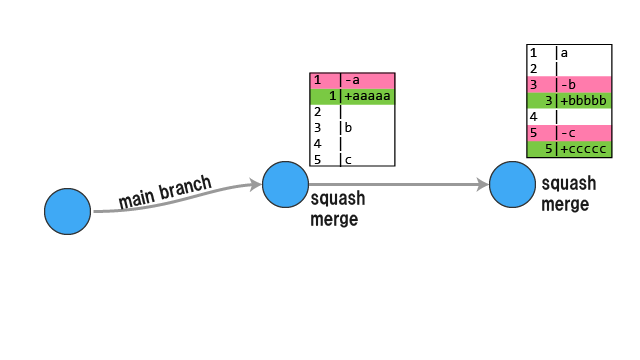
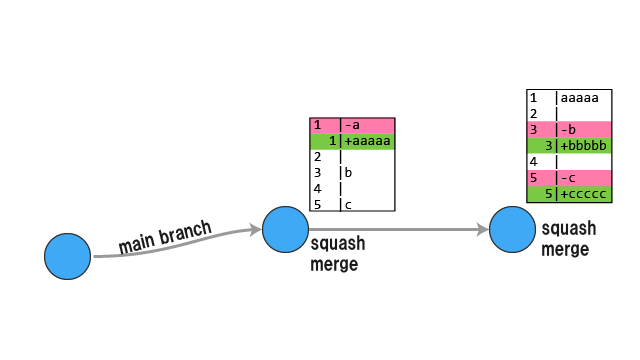
okay

Changed region(s): [[0.0625, 0.1222, 0.9688, 0.7944], [0.9375, 0.1222, 0.9688, 0.1528]]

diff --git a/articles/f20aee8979292d.md b/articles/f20aee8979292d.md
@@ -8,7 +8,7 @@ published: false
 
 ## 導入
 
-GitHub の Pull Request をマージする方法には 3 種類の方法、Merge pull request(Create a merge commit)、Squash and merge、Rebase and merge があります。
+GitHub の Pull Request をマージする方法には 3 種類、Merge pull request(Create a merge commit)、Squash and merge、Rebase and merge があります。
 
 ![Create a merge commit](/images/f20aee8979292d/pr-merge-merge-commit.png)
 
@@ -25,7 +25,7 @@ GitHub の Pull Request をマージする方法には 3 種類の方法、Merge
 
 :::
 
-すでに様々な場所で解説されている内容ですが、あらためて自分で手を動かして動作確認すると、新しい発見があり、知識の整理ができると思います。そこで本記事では、コピペで貼り付けるだけで簡単に手順を再現できる形でこれら 3 種類の違いを説明していきます。
+すでに様々な場所で解説されている内容ですが、あらためて手を動かして動作確認すると、新しい発見があり、知識の整理もできると思います。そこで本記事では、これら 3 種類の違いを説明しつつ、コピペで貼り付けるだけで簡単に手順を再現できるようにしています。
 
 ## 準備: GitHub レポジトリの作成
 
@@ -40,7 +40,10 @@ git init
 GitHub 上にレポジトリを作成しましょう。Web ブラウザではなくコマンドを使えば一発で終わります。
 
 ```sh:コピペして実行
-gh repo create "" --public --source=. --remote=origin
+gh repo create pull-req-merge-experiments \ # GitHub上のレポジトリ名 pull-req-merge-experiments
+  --public \      # public レポジトリとして作成
+  --source=. \    # ローカルレポジトリのパスは.
+  --remote=origin # リモートレポジトリをoriginに指定
 ```
 
 :::details 　上記の gh コマンドは何？
@@ -81,7 +84,7 @@ git push --set-upstream origin pr-merge-commit-1
 gh pr create --title pr-merge-commit-1 --body "" --base main --head pr-merge-commit-1
 ```
 
-:::details Pull Request の File diff
+:::details 1 つめの Pull Request の File diff
 ![branch-merge-commit-1](/images/f20aee8979292d/branch-merge-commit-1.png)
 :::
 
@@ -101,15 +104,15 @@ git push --set-upstream origin pr-merge-commit-2
 gh pr create --title pr-merge-commit-2 --body "" --base main --head pr-merge-commit-2
 ```
 
-:::details Pull Request の File diff
+:::details 2 つめの Pull Request の File diff
 ![branch-merge-commit-2](/images/f20aee8979292d/branch-merge-commit-2.png)
 :::
 
-:::details 2 つ Pull Request の状態を図解
+:::details 両方の Pull Request の状態を図解
 ![git-pr-merge-4](/images/f20aee8979292d/git-pr-merge-4.png)
 :::
 
-これで merge commit の動作を確認するための Pull Request が 2 つ作成されましたので、1 つめ Pull Request をマージします。
+これで merge commit の動作を確認するための Pull Request が 2 つ作成されたので、1 つめ Pull Request をマージします。
 
 ```sh:コピペして実行
 gh pr merge pr-merge-commit-1 --merge --delete-branch
@@ -139,11 +142,11 @@ git pull origin main
 :::details 2 つめの Pull Request マージ結果
 これによって 2 つめの Merge commit が作成されます。
 
-しかし GitHub 上でここまでの git log を確認すると、本来は分岐が発生しているにも関わらず、一直線にコミットが並んでいるように見え、かつ Merge commit2 つが連続しています。
-
 ![github-log-merge-commit-2](/images/f20aee8979292d/github-log-merge-commit-2.png)
 
-Merge commit によって分岐が発生した場合には、下記のコマンドで確認すると分岐の様子がわかりやすくなります。
+しかし GitHub 上でここまでの git log を確認すると、本来は分岐が発生しているにも関わらず、一直線にコミットが並んでいるように見え、かつ Merge commit2 つが連続しています。
+
+この場合、下記のコマンドで確認すると分岐の様子がわかりやすくなります。
 
 ```sh:コピペして実行
 git log --oneline --decorate --graph
@@ -171,7 +174,7 @@ git log --oneline --decorate --graph
 
 ## ローカル で `no-ff` オプションを使ったマージを試す
 
-GitHub Docs の[「プルリクエストをマージする」](https://docs.github.com/ja/pull-requests/collaborating-with-pull-requests/incorporating-changes-from-a-pull-request/merging-a-pull-request)を見ると、次の記述があります。
+GitHub Docs の[「プルリクエストをマージする」](https://docs.github.com/ja/pull-requests/collaborating-with-pull-requests/incorporating-changes-from-a-pull-request/merging-a-pull-request)を見ると、次の記述があります。これを確認してみましょう。
 
 > (create a merge commit では) プルリクエストは --no-ff オプションを使用してマージされますが…
 
@@ -215,7 +218,7 @@ git push origin main
 
 `no-ff`をつけてマージした結果はこちらのようになります。GitHub 上でのマージと同じように、Merge commit が作成されます。
 
-![git-pr-merge-2.png](/images/f20aee8979292d/git-pr-merge-2.png)
+![git-pr-merge-3.png](/images/f20aee8979292d/git-pr-merge-3.png)
 _git マージの結果_
 
 git log でも確認してみましょう。
@@ -273,7 +276,7 @@ git push origin main
 
 デフォルトのマージを行った結果はこちらのようになります。Merge commit は作成されず、main ブランチの先にもうひとつのブランチのコミットを連続してコミットしたような形になります。
 
-![git-pr-merge-3](/images/f20aee8979292d/git-pr-merge-3.png)
+![git-pr-merge-2](/images/f20aee8979292d/git-pr-merge-2.png)
 _git マージの結果_
 
 git log でも確認してみましょう。
@@ -324,7 +327,7 @@ git push --set-upstream origin pr-squash-merge-1
 gh pr create --title pr-squash-merge-1 --body "" --base main --head pr-squash-merge-1
 ```
 
-:::details Pull Request の File diff
+:::details 1 つめの Pull Request の File diff
 ![branch-merge-commit-1](/images/f20aee8979292d/branch-merge-commit-1.png)
 :::
 
@@ -344,18 +347,18 @@ git push --set-upstream origin pr-squash-merge-2
 gh pr create --title pr-squash-merge-2 --body "" --base main --head pr-squash-merge-2
 ```
 
-:::details Pull Request の File diff
+:::details 2 つめの Pull Request の File diff
 ![branch-merge-commit-2](/images/f20aee8979292d/branch-merge-commit-2.png)
 :::
 
-:::details 2 つ Pull Request の状態を図解
+:::details 両方の Pull Request の状態を図解
 ![git-pr-merge-4](/images/f20aee8979292d/git-pr-merge-4.png)
 :::
 
 これで merge commit の動作を確認するための Pull Request が 2 つ作成されましたので、1 つめ Pull Request をマージします。
 
 ```sh:コピペして実行
-gh pr merge pr-squash-merge-1 --squash --delete-branch # PRのSquash merge
+gh pr merge pr-squash-merge-1 --squash --delete-branch
 ```
 
 :::details 1 つめの Pull Request マージ結果
@@ -374,7 +377,7 @@ File diff とブランチはこのようになります。
 続いて 2 つめの Pull Request をマージします。
 
 ```sh:コピペして実行
-gh pr merge pr-squash-merge-2 --squash --delete-branch # PRのSquash merge
+gh pr merge pr-squash-merge-2 --squash --delete-branch
 
 # GitHub 側で更新された main ブランチを pull
 git switch main
@@ -384,7 +387,7 @@ git pull origin main
 :::details 2 つめの Pull Request マージ結果
 2 つめのブランチには複数のコミットが行われたので、squash commit が作成されます。
 
-GitHub 上で git log を確認すると、squash コミット 1 つのみが追加されたことがわかります。
+GitHub 上で git log を確認すると、squash コミット のみが追加されたことがわかります。
 
 ![github-log-squash-merge-2](/images/f20aee8979292d/github-log-squash-merge-2.png)
 
@@ -403,5 +406,118 @@ git log --oneline --decorate --graph
 File diff とブランチはこのようになります。
 
 ![git-pr-merge-8.png](/images/f20aee8979292d/git-pr-merge-8.png)
+
+:::
+
+## Rebase merge
+
+3 つめのマージ手法 Rebase merge を説明します。
+
+![Rebase merge](/images/f20aee8979292d/pr-merge-rebase.png)
+
+編集対象のファイルを作成します。
+
+```sh:コピペして実行 (全部一度にコピペできます)
+cat << EOF > pull-req-rebase-merge.txt
+a
+
+b
+
+c
+EOF
+git add --all
+git commit -m "create pull-req-rebase-merge.txt"
+git push origin main
+```
+
+1 つめの Pull Request を作成しましょう。
+
+```sh:コピペして実行
+git switch -c pr-rebase-merge-1
+sed -i 's/a/aaaaa/' pull-req-rebase-merge.txt
+git add --all
+git commit -m "update a in pr-rebase-merge-1"
+
+# GitHubにPull Requestを作成
+git push --set-upstream origin pr-rebase-merge-1
+gh pr create --title pr-rebase-merge-1 --body "" --base main --head pr-rebase-merge-1
+```
+
+:::details 1 つめの Pull Request の File diff
+![branch-merge-commit-1](/images/f20aee8979292d/branch-merge-commit-1.png)
+:::
+
+次に 1 つめの Pull Request と[コンフリクト](https://docs.github.com/ja/pull-requests/collaborating-with-pull-requests/addressing-merge-conflicts/about-merge-conflicts)を起こさないように 2 つめの Pull Request を作成します。
+
+```sh:コピペして実行
+git switch -c pr-rebase-merge-2 main
+sed -i 's/b/bbbbb/' pull-req-rebase-merge.txt
+git add --all
+git commit -m "update b in pr-rebase-merge-2"
+sed -i 's/c/ccccc/' pull-req-rebase-merge.txt
+git add --all
+git commit -m "update c in pr-rebase-merge-2"
+
+# GitHubにPull Requestを作成
+git push --set-upstream origin pr-rebase-merge-2
+gh pr create --title pr-rebase-merge-2 --body "" --base main --head pr-rebase-merge-2
+```
+
+:::details 2 つめの Pull Request の File diff
+![branch-merge-commit-2](/images/f20aee8979292d/branch-merge-commit-2.png)
+:::
+
+:::details 両方の Pull Request の状態を図解
+![git-pr-merge-4](/images/f20aee8979292d/git-pr-merge-4.png)
+:::
+
+これで rebase merge の動作を確認するための Pull Request が 2 つ作成されましたので、1 つめ Pull Request をマージします。
+
+```sh:コピペして実行
+gh pr merge pr-rebase-merge-1 --rebase --delete-branch
+```
+
+:::details 1 つめの Pull Request マージ結果
+main ブランチの先に 1 つめのブランチのコミットを連続してコミットしたような形になります。
+
+![github-log-rebase-merge-1](/images/f20aee8979292d/github-log-rebase-merge-1.png)
+
+File diff とブランチはこのようになります。
+
+![git-pr-merge-10.png](/images/f20aee8979292d/git-pr-merge-10.png)
+
+:::
+
+続いて 2 つめの Pull Request をマージします。
+
+```sh:コピペして実行
+gh pr merge pr-rebase-merge-2 --rebase --delete-branch
+
+# GitHub 側で更新された main ブランチを pull
+git switch main
+git pull origin main
+```
+
+:::details 2 つめの Pull Request マージ結果
+main ブランチの先に 2 つめのブランチのコミットを連続してコミットしたような形になります。
+
+![github-log-squash-merge-2](/images/f20aee8979292d/github-log-rebase-merge-2.png)
+
+ローカルでも git log を確認してみましょう。
+
+```sh:コピペして実行
+git log --oneline --decorate --graph
+```
+
+```txt:実行結果
+* c17e7a9 update 3 in pr-rebase-merge-2
+* 5cd3768 update 2 in pr-rebase-merge-2
+* 49dce5e update 1 in pr-rebase-merge-1
+* e9bc068 create pull-req-rebase-merge.txt
+```
+
+File diff とブランチはこのようになります。
+
+![git-pr-merge-11.png](/images/f20aee8979292d/git-pr-merge-11.png)
 
 :::
